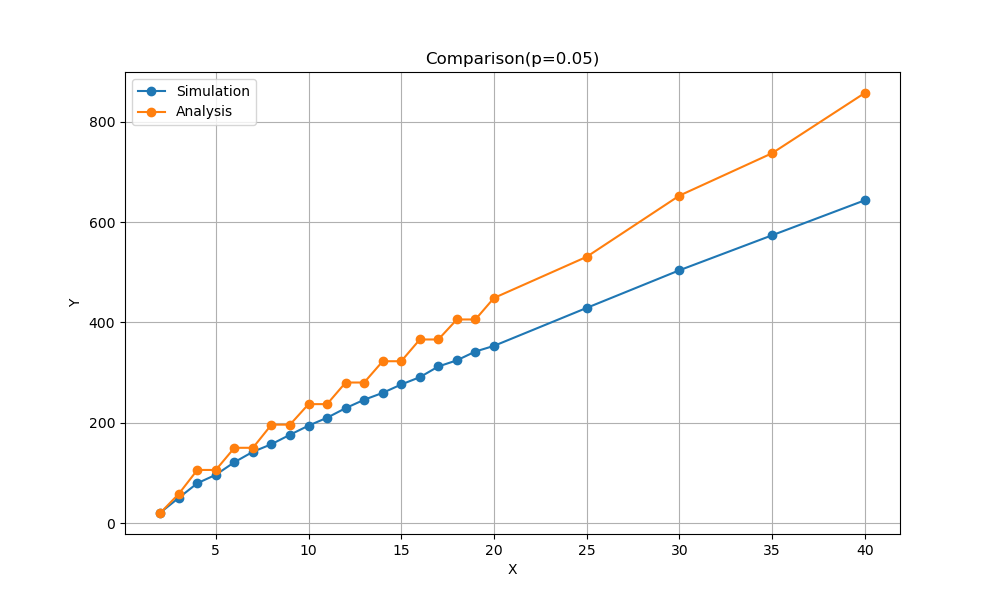
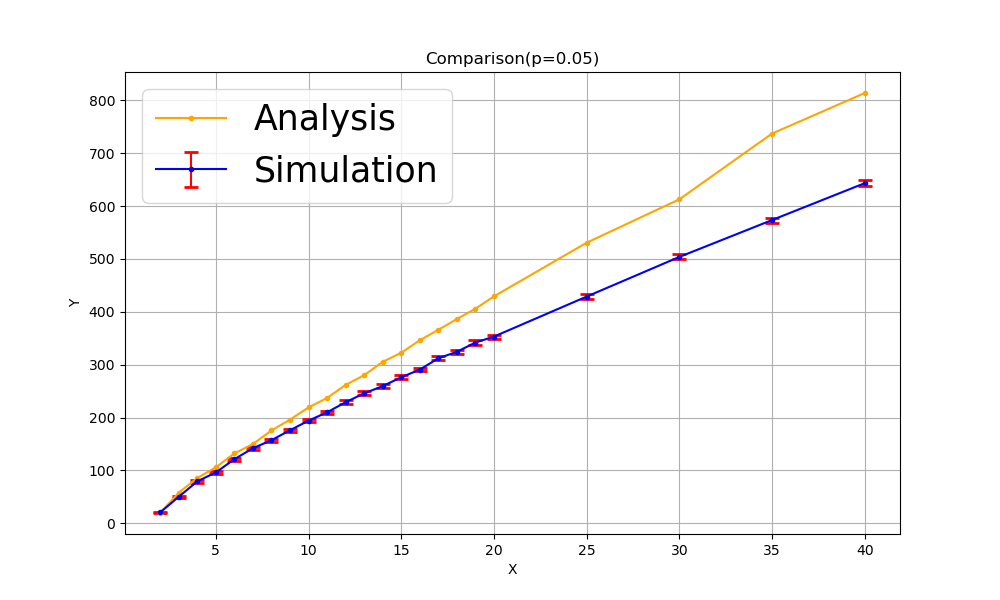
update

diff --git a/utils/plot.py b/utils/plot.py
@@ -1,4 +1,5 @@
 import matplotlib.pyplot as plt
+import numpy as np
 
 # Data
 data_005 = [
@@ -75,8 +76,19 @@ sim_005 = [item[1] for item in data_005]
 sim_01 = [item[1] for item in data_01]
 sim_015 = [item[1] for item in data_015]
 
-ana_005 = [20, 58.0696, 105.8186, 105.8186, 149.9606, 149.9606, 196.1002, 196.1002, 237.0068, 237.0068, 280.0756, 280.0756, 322.51, 322.51, 365.8616, 365.8616, 405.742, 405.742, 448.5546, 530.6136, 652.5386, 737.0668, 857.1302]
+err_lower_01 = [row[1] - row[2][0] for row in data_01]
+err_upper_01 = [row[2][1] - row[1] for row in data_01]
 
+err_lower_015 = [row[1] - row[2][0] for row in data_015]
+err_upper_015 = [row[2][1] - row[1] for row in data_015]
+
+ana_005 = [20, 58.0696, 85.7344, 105.8186, 132.1876, 149.9606, 175.6066, 196.1002, 219.0824, 237.0068, 261.7016, 280.0756, 305.3478, 322.51, 346.166, 365.8616, 386.3986, 405.742, 429.207, 530.6136, 612.732, 737.0668, 813.759]
+
+
+sim_005_intervals = [[19.47044414292179, 21.827555857078213], [48.40768610858602, 51.954313891413975], [77.08682929939394, 81.60917070060606], [93.98898227252454, 98.43901772747546], [118.6355607672284, 123.8524392327716], [139.14810924182657, 144.89189075817345], [154.2499605752137, 160.0820394247863], [172.80773978083906, 179.16426021916092], [190.97887931597484, 197.29112068402515], [206.51682263475638, 213.2511773652436], [225.66765224062112, 232.36634775937887], [242.15271288952655, 249.34728711047345], [255.6967388077749, 263.1552611922251], [272.59270153597635, 279.7932984640236], [287.103255664328, 294.238744335672], [308.2138757767751, 315.84412422322487], [320.3941873172672, 328.2358126827328], [338.00146117794316, 345.7685388220568], [349.1663099357907, 357.0196900642093], [424.2997014512748, 433.2622985487252], [499.13905954879675, 508.4029404512033], [568.7034323091298, 578.3085676908702], [638.0925904369669, 648.4354095630331]]
+y_errors = [(mean - lower, upper - mean) for mean, (lower, upper) in zip(sim_005, sim_005_intervals)]
+lower_errors_005 = [err[0] for err in y_errors]
+upper_errors_005 = [err[1] for err in y_errors]
 
 x1 = list(range(2, 21))
 x1.append(25)
@@ -89,24 +101,24 @@ x2 = list(range(2, 21))
 
 # Figure 1
 plt.figure(figsize=(10, 6))
-plt.plot(x1, sim_005, marker='o', label='Simulation')
-plt.plot(x1, ana_005, marker='o', label='Analysis')
+plt.errorbar(x1, sim_005, yerr=[lower_errors_005, upper_errors_005], fmt='-o', markersize=3, capsize=5, capthick=2, color='blue', ecolor='red', label='Simulation')
+plt.plot(x1, ana_005, marker='o', markersize=3, color='orange',label='Analysis')
 plt.xlabel('X')
 plt.ylabel('Y')
 plt.title('Comparison(p=0.05)')
-plt.legend()
+plt.legend(fontsize=25)
 plt.grid(True)
 plt.show()
 
 # Figure 3
-plt.figure(figsize=(20, 6))
-plt.plot(x2, sim_005[:19], marker='o', label='P=0.05')
-plt.plot(x2, sim_01, marker='o', label='P=0.1')
-plt.plot(x2, sim_015, marker='o', label='P=0.15')
-plt.xticks(x2)
-plt.xlabel('Node')
-plt.ylabel('Time Cost')
-plt.title('Comparison(P=0.05, 0.1, 0.15)')
-plt.legend()
-plt.grid(True)
-plt.show()
+# plt.figure(figsize=(20, 6))
+# plt.errorbar(x2, sim_005[:19], yerr=[lower_errors_005[:19], upper_errors_005[:19]], fmt='-o', markersize=3, capsize=5, capthick=2, ecolor='red', label='P=0.05')
+# plt.errorbar(x2, sim_01, yerr=[err_lower_01, err_upper_01], fmt='-o', markersize=3, capsize=5, capthick=2, ecolor='red', label='P=0.1')
+# plt.errorbar(x2, sim_015, yerr=[err_lower_015, err_upper_015], fmt='-o', markersize=3, capsize=5, capthick=2, ecolor='red', label='P=0.15')
+# plt.xticks(x2)
+# plt.xlabel('Node')
+# plt.ylabel('Time Cost')
+# plt.title('Comparison(P=0.05, 0.1, 0.15)')
+# plt.legend(fontsize=25)
+# plt.grid(True)
+# plt.show()

diff --git a/utils/nbrv.py b/utils/nbrv.py
@@ -1,7 +1,7 @@
 import numpy as np
 
 # Parameters
-gamma_list = [12, 15, 17, 20]
+gamma_list = [14, 19]
 p = 0.05
 size = 10000  # Number of samples to generate
 ana = []
